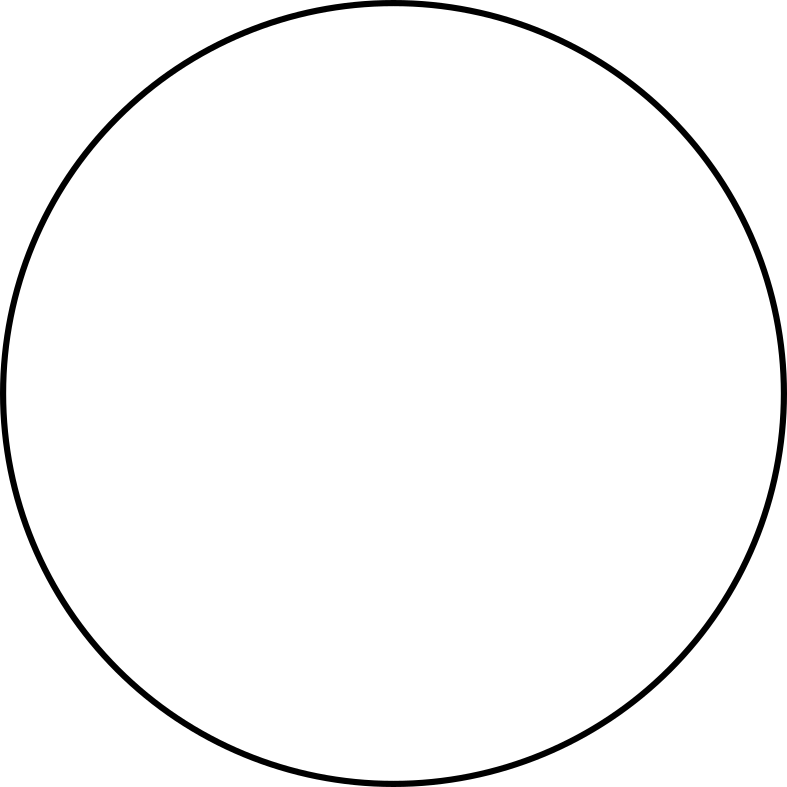
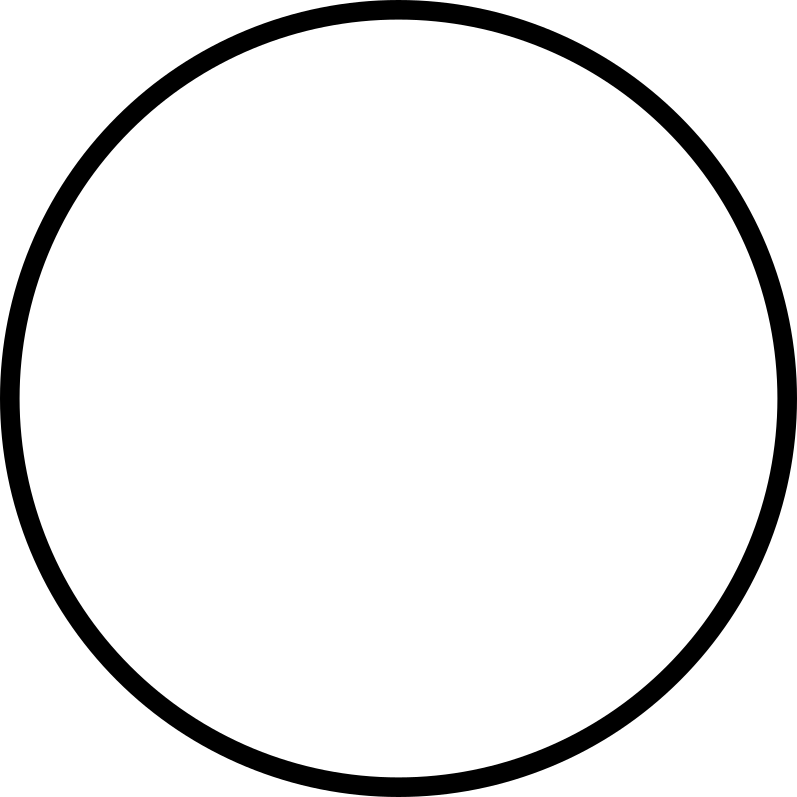
Framerate Control

Changed region(s): [[0.0, 0.0, 1.0, 1.0], [0.7929, 0.7929, 0.8844, 0.8844]]

diff --git a/source/Main.cpp b/source/Main.cpp
@@ -1,39 +1,39 @@
 #include "Game.hpp"
 // #include <stdio.h>
 
+Vector2 velocity({0.3, -0.2});
+Vector2 pos({300, 400});
+Vector2 size({60, 60});
+Vector2 hsize = size/2;
+Vector2 window_res = {900, 600};
+
 void Game::SetUp(){
-    Vector2 window_res = {900, 600};
     Vector2 texture_res = {787, 787};
     circle = new Object(renderer, window_res);
     circle->Set_Texture("assets/Circle.png", texture_res);
-    circle->Set_Pos({300, 50});
-    circle->Set_Scale(1.0/4);
+    circle->Set_Pos(pos);
+    circle->Set_Size(size);
 
-    // circle->Update_Dest();
-    // printf("source = ");
-    // PrintRect(circle->source);
-    // printf("destination = ");
-    // PrintRect(circle->destination);
+    Set_Framerate(50);
 }
 
 void Game::Update(){
-    static Vector2 velocity = {4, -2};
-    static Vector2 pos({300, 400});
-
-    pos += velocity;
+    pos += velocity*delta_time;
     circle->Set_Pos(pos);
-    // Print_Vector2(pos);
 
-    if(pos.x <= 98)
-        velocity.x *= -1;
-    if(pos.y <= 98)
-        velocity.y *= -1;
-    if(pos.x >= 802)
-        velocity.x *= -1;
-    if(pos.y >= 502)
-        velocity.y *= -1;
+    int left_edge = hsize.x;
+    int right_edge = window_res.x - hsize.x;
+    int top_edge = hsize.y;
+    int bottom_edge = window_res.y - hsize.y;
 
-    SDL_Delay(10);
+    if(pos.x <= left_edge)
+        velocity.x *= -1;
+    if(pos.y <= top_edge)
+        velocity.y *= -1;
+    if(pos.x >= right_edge)
+        velocity.x *= -1;
+    if(pos.y >= bottom_edge)
+        velocity.y *= -1;
 }
 
 int main(){
@@ -42,6 +42,7 @@ int main(){
 
     while(game->running){
         game->Event_Handler();
+        game->Timing();
         game->Update();
         game->Render();
     }

diff --git a/source/Object.cpp b/source/Object.cpp
@@ -1,30 +1,8 @@
 #include "Object.hpp"
 
-void Print_Vector2(const Vector2& v){
-    printf("[%i, %i]\n", v.x, v.y);
-}
-
-Vector2 Vector2::operator-(const Vector2& v){
-    Vector2 result = {x - v.x, y - v.y};
-    return result;
-}
-Vector2 Vector2::operator*(float A){
-    Vector2 result = {static_cast<float>(x)*A, static_cast<float>(y)*A};
-    return result;
-}
-Vector2 Vector2::operator/(float A){
-    Vector2 result = {static_cast<float>(x)/A, static_cast<float>(y)/A};
-    return result;
-}
-
-void Vector2::operator+=(const Vector2& v){
-    x += v.x;
-    y += v.y;
-}
-
 Object::Object(SDL_Renderer* p_renderer, const Vector2& p_window_res):
     texture(NULL), window_res(p_window_res), pos(window_res/2),
-    scale(1){
+    size(window_res/10){
     renderer = p_renderer;
 }
 
@@ -39,15 +17,15 @@ void Object::Set_Pos(const Vector2& p_pos){
     outdated = 1;
 }
 
-void Object::Set_Scale(float p_scale){
-    scale = p_scale;
+void Object::Set_Size(const Vector2& p_size){
+    size = p_size;
     outdated = 1;
 }
 
 void Object::Update_Dest(){
-    Vector2 dest_res = texture_res*scale;
-    Vector2 corner = pos - dest_res/2;
-    destination = {corner.x, corner.y, dest_res.x, dest_res.y};
+    Vector2 corner = pos - size/2;
+    // printf("[%f, %f, %f, %f]\n", corner.x, corner.y, size.x, size.y);
+    destination = {corner.x, corner.y, size.x, size.y};
 
     outdated = 0;
 }

diff --git a/source/Game.cpp b/source/Game.cpp
@@ -1,6 +1,6 @@
 #include "Game.hpp"
 
-void PrintRect(const SDL_Rect& rect){
+void Print_Rect(const SDL_Rect& rect){
     printf("[%i, %i, %i, %i]\n", rect.x, rect.y, rect.h, rect.w);
 }
 
@@ -36,21 +36,42 @@ Game::Game(const char* title, int width, int height, bool fullscreen){
 
     running = 1;
 }
+
 void Game::Event_Handler(){
     SDL_Event event;
     SDL_PollEvent(&event);
     if(event.type == SDL_QUIT)
         running = 0;
 }
+
 void Game::Render(){
     SDL_RenderClear(renderer);
     if(circle->texture){
         if(circle->outdated)
             circle->Update_Dest();
+        // Print_Rect(circle->destination);
         SDL_RenderCopy(renderer, circle->texture, &circle->source, &circle->destination);
     }
     SDL_RenderPresent(renderer);
 }
+
+void Game::Set_Framerate(float framerate){
+    framedelay = 1000.0/framerate;
+}
+
+void Game::Timing(){
+    Uint32 current_frame = SDL_GetTicks();
+    static Uint32 last_frame = current_frame;
+    static int to_wait = 0;
+
+    delta_time = current_frame - last_frame;
+    to_wait += framedelay - delta_time;
+    if(to_wait > 0)
+        SDL_Delay(to_wait);
+
+    last_frame = current_frame;
+}
+
 Game::~Game(){
     delete circle;
     SDL_DestroyRenderer(renderer);

diff --git a/include/Object.hpp b/include/Object.hpp
@@ -1,37 +1,26 @@
 #ifndef Object_hpp
 #define Object_hpp
 
-#include <stdio.h>
 #include <SDL2/SDL.h>
 #include <SDL2/SDL_image.h>
-
-struct Vector2{
-    int x, y;
-
-    Vector2 operator-(const Vector2& v);
-    Vector2 operator*(float A);
-    Vector2 operator/(float A);
-    void operator+=(const Vector2& v);
-};
-
-void Print_Vector2(const Vector2& v);
+#include "Vector2.hpp"
 
 class Object{
 public:
     Object(SDL_Renderer* p_renderer, const Vector2& p_window_res);
     void Set_Texture(const char* path, const Vector2& p_texture_res);
     void Set_Pos(const Vector2& p_pos);
-    void Set_Scale(float p_scale);
+    void Set_Size(const Vector2& p_size);
     void Update_Dest();
     ~Object();
     friend class Game;
 private:
     SDL_Texture* texture;
     SDL_Renderer* renderer;
-    float scale;
     bool outdated;
     Vector2 window_res;
     Vector2 texture_res;
+    Vector2 size;
     Vector2 pos;
     SDL_Rect source;
     SDL_Rect destination;

diff --git a/include/Game.hpp b/include/Game.hpp
@@ -2,11 +2,8 @@
 #define Game_hpp
 
 #include "Object.hpp"
-// #include <stdio.h>
-// #include <SDL2/SDL.h>
-// #include <SDL2/SDL_image.h>
 
-void PrintRect(const SDL_Rect& rect);
+void Print_Rect(const SDL_Rect& rect);
 
 class Game{
 public:
@@ -14,12 +11,16 @@ public:
     void Event_Handler();
     void Render();
     void SetUp();
+    void Timing();
+    void Set_Framerate(float framerate);
     void Update();
     ~Game();
+    Uint32 delta_time;
     bool running;
     Object* circle = NULL;
 
 private:
+    float framedelay = 40;
     Vector2 window_res;
     SDL_Window* window;
     SDL_Renderer* renderer;

diff --git a/source/Vector2.cpp b/source/Vector2.cpp
@@ -1,0 +1,23 @@
+#include "Vector2.hpp"
+
+void Print_Vector2(const Vector2& v){
+    printf("[%.2f, %.2f]\n", v.x, v.y);
+}
+
+Vector2 Vector2::operator-(const Vector2& v){
+    Vector2 result = {x - v.x, y - v.y};
+    return result;
+}
+Vector2 Vector2::operator*(float A){
+    Vector2 result = {x*A, y*A};
+    return result;
+}
+Vector2 Vector2::operator/(float A){
+    Vector2 result = {x/A, y/A};
+    return result;
+}
+
+void Vector2::operator+=(const Vector2& v){
+    x += v.x;
+    y += v.y;
+}

diff --git a/include/Vector2.hpp b/include/Vector2.hpp
@@ -1,0 +1,17 @@
+#ifndef Vector2_hpp
+#define Vector2_hpp
+
+#include <stdio.h>
+
+struct Vector2{
+    float x, y;
+
+    Vector2 operator-(const Vector2& v);
+    Vector2 operator*(float A);
+    Vector2 operator/(float A);
+    void operator+=(const Vector2& v);
+};
+
+void Print_Vector2(const Vector2& v);
+
+#endif //Vector2_hpp
